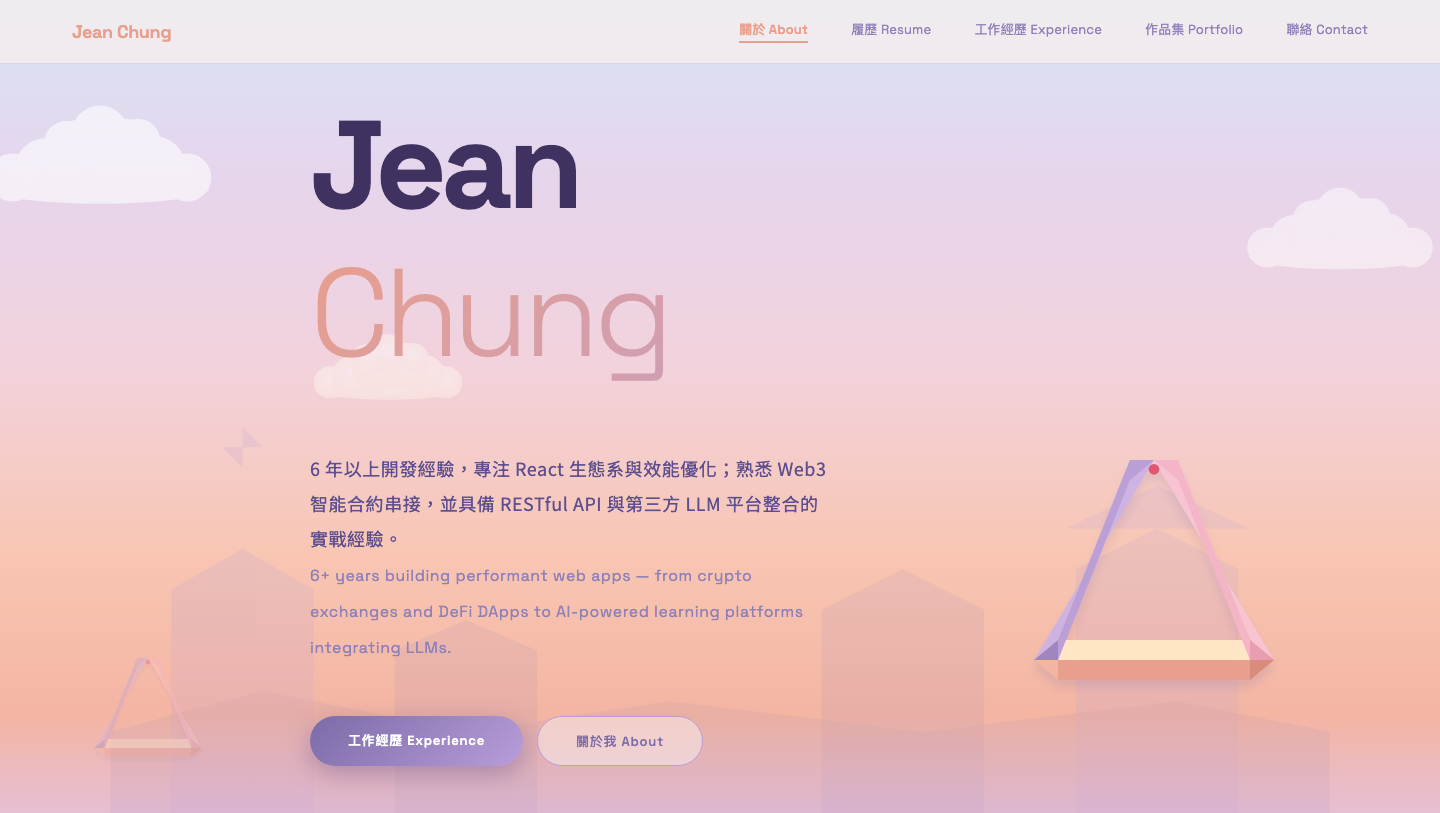
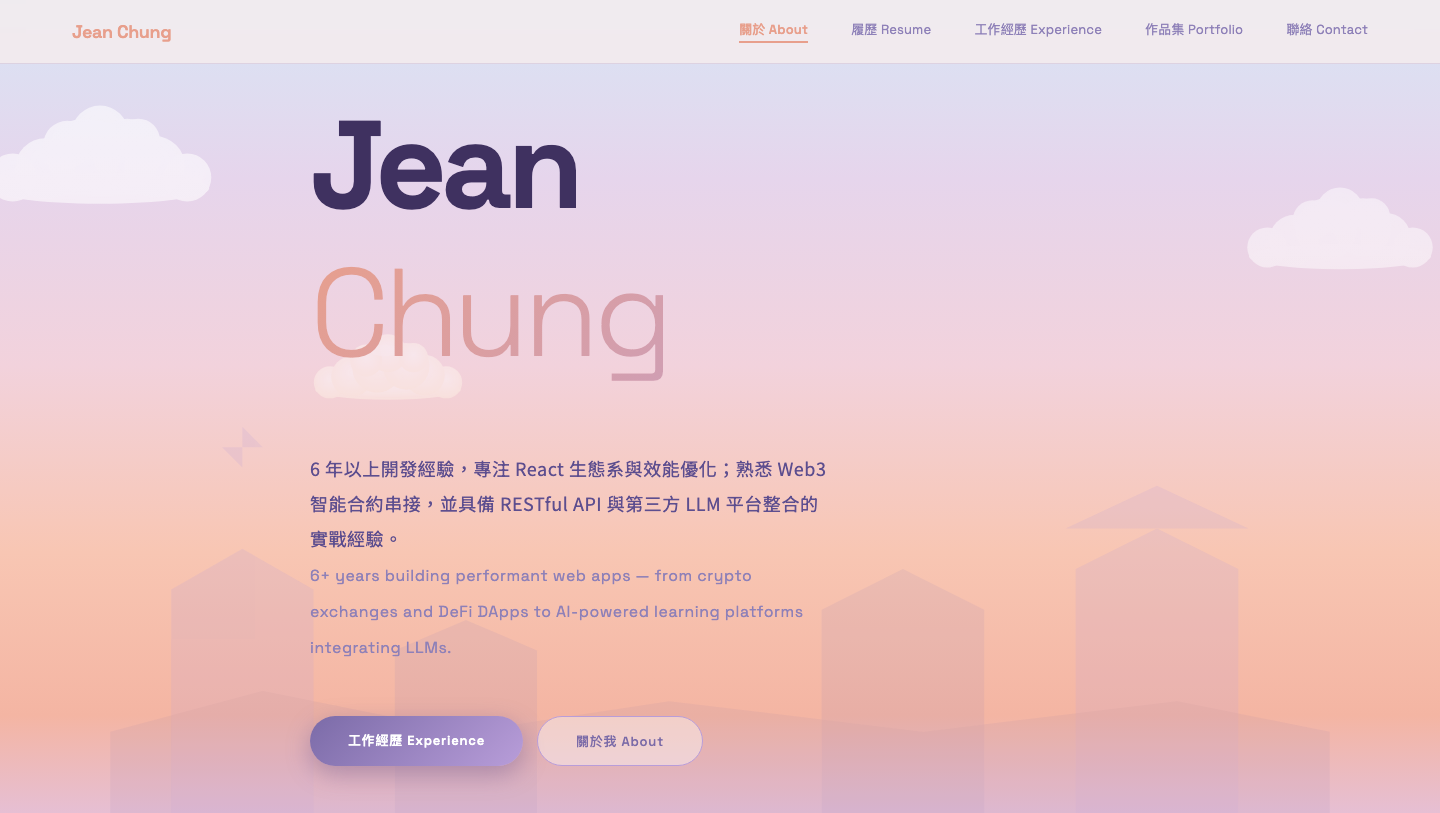
Remove Penrose triangle from hero, ja label and Say hello from Contact
- Drop both PenroseTriangle decorations from the hero — leaves the
  bg gradient + floating clouds + bg pagoda silhouettes only, less
  visually busy
- Drop the small Japanese label '連絡先' next to the Contact section
  title (passes empty string to SectionTitle's ja prop)
- Trim the contact CTA from '聯絡我 Say hello' to just '聯絡我'

Changed region(s): [[0.7188, 0.738, 0.9062, 0.861], [0.75, 0.5535, 0.8125, 0.738]]

diff --git a/index.html b/index.html
@@ -342,8 +342,6 @@ function Hero() {
       <MvCloud style={{ top:"22%", right:"-40px", width:"280px", height:"100px" }} color="#FFFFFF" opacity={0.5}/>
       <MvCloud style={{ top:"40%", left:"20%", width:"200px", height:"80px" }} color="#FFF4E6" opacity={0.45}/>
 
-      <PenroseTriangle style={{ bottom:"8%", right:"6%", width:"clamp(240px, 30vw, 400px)", height:"clamp(240px, 30vw, 400px)" }} opacity={0.95}/>
-      <PenroseTriangle style={{ bottom:"4%", left:"4%", width:"clamp(120px, 14vw, 180px)", height:"clamp(120px, 14vw, 180px)" }} opacity={0.35}/>
 
       <div style={{
         maxWidth:"820px", position:"relative", zIndex:2, width:"100%",
@@ -1174,7 +1172,7 @@ function Contact() {
       <MvCloud style={{ top:"30%", left:"4%", width:"220px", height:"95px" }} color="#FFF4E6" opacity={0.55}/>
 
       <div style={{ maxWidth:"820px", margin:"0 auto", position:"relative", zIndex:1 }}>
-        <SectionTitle en="Contact" ja="連絡先" zh="聯絡方式" />
+        <SectionTitle en="Contact" ja="" zh="聯絡方式" />
 
         <div style={{
           marginTop:"60px",
@@ -1202,7 +1200,7 @@ function Contact() {
           }}
           onMouseEnter={e=>{ e.currentTarget.style.transform="translateY(-2px)"; e.currentTarget.style.boxShadow="0 12px 28px rgba(93,78,143,0.55)"; }}
           onMouseLeave={e=>{ e.currentTarget.style.transform="none"; e.currentTarget.style.boxShadow="0 8px 20px rgba(93,78,143,0.40)"; }}>
-            聯絡我 Say hello
+            聯絡我
           </a>
         </div>
 
